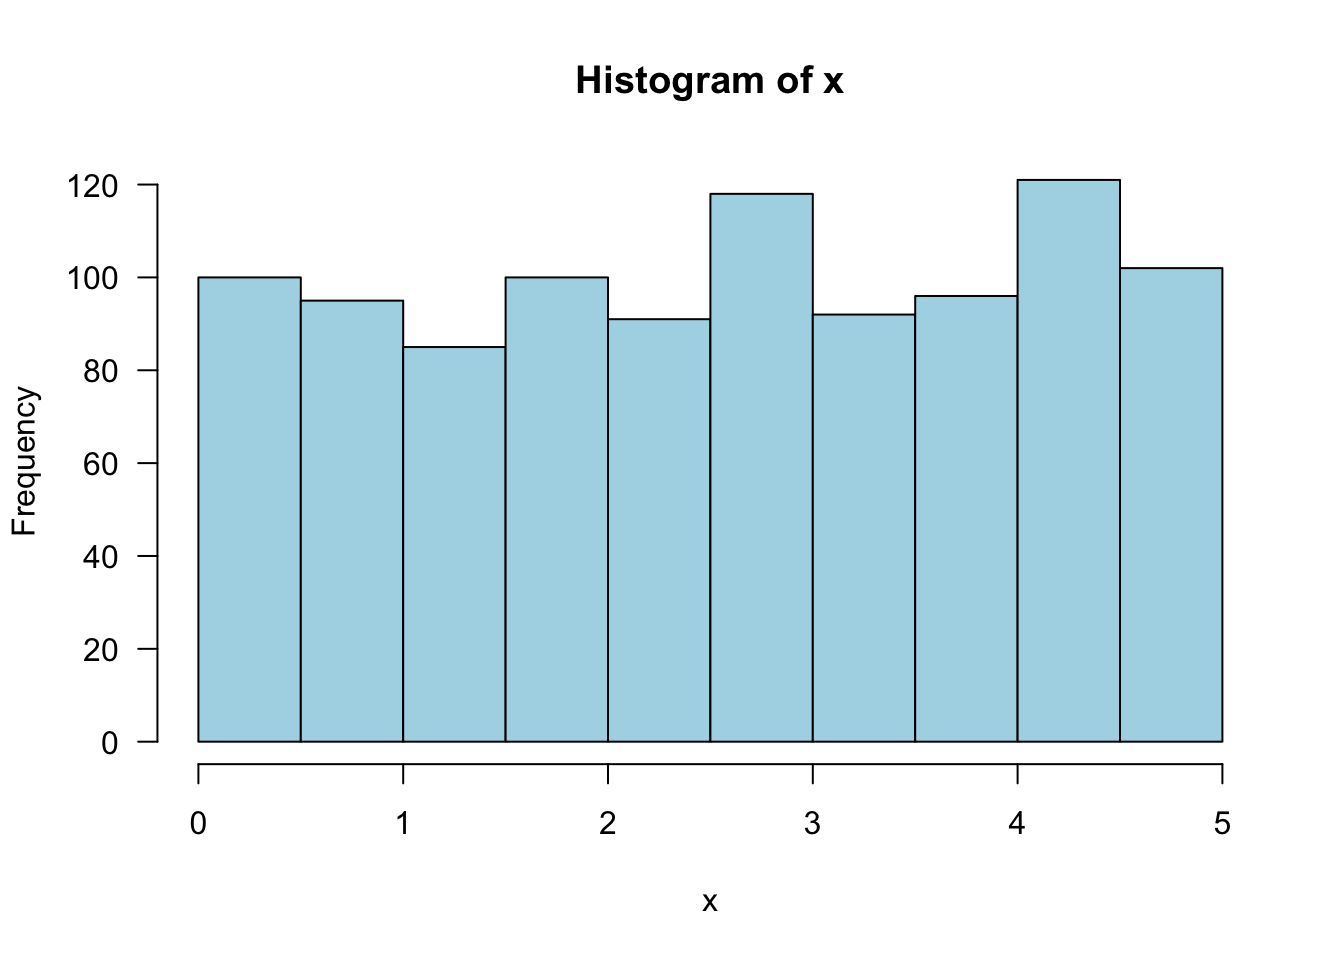
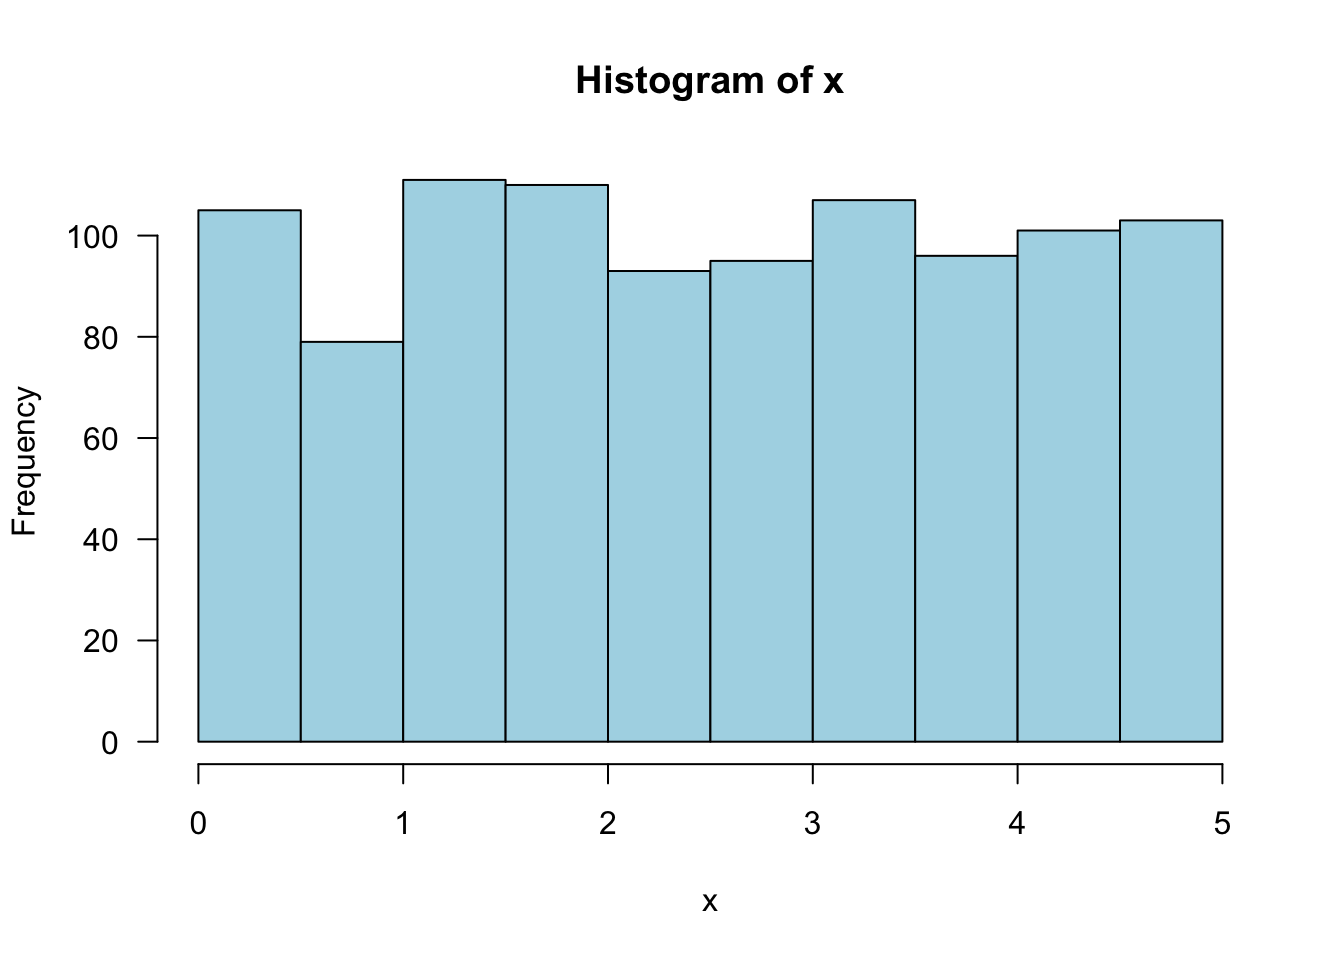
add link to interactive normal

diff --git a/docs/ch-4-continuous-random-variables-and-probability-distributions.html b/docs/ch-4-continuous-random-variables-and-probability-distributions.html
@@ -25,7 +25,7 @@
 <meta name="author" content="Joyce Robbins">
 
 
-<meta name="date" content="2019-02-25">
+<meta name="date" content="2019-02-26">
 
   <meta name="viewport" content="width=device-width, initial-scale=1">
   <meta name="apple-mobile-web-app-capable" content="yes">
@@ -270,11 +270,11 @@ code span.wa { color: #60a0b0; font-weight: bold; font-style: italic; } /* Warni
 <p>Randomly choose one number from the distribution:</p>
 <p><span class="math inline">\(f(x) = .2\)</span> for <span class="math inline">\(0 \leq x \leq 5\)</span>, 0 otherwise.</p>
 <pre class="sourceCode r"><code class="sourceCode r"><span class="kw">runif</span>(<span class="dt">n =</span> <span class="dv">1</span>, <span class="dt">min =</span> <span class="dv">0</span>, <span class="dt">max =</span> <span class="dv">5</span>)</code></pre>
-<pre><code>## [1] 4.286508</code></pre>
+<pre><code>## [1] 0.9302118</code></pre>
 <p>Take the average of 1000 picks:</p>
 <pre class="sourceCode r"><code class="sourceCode r">x &lt;-<span class="st"> </span><span class="kw">runif</span>(<span class="dt">n =</span> <span class="dv">1000</span>, <span class="dt">min =</span> <span class="dv">0</span>, <span class="dt">max =</span> <span class="dv">5</span>)
 <span class="kw">mean</span>(x)</code></pre>
-<pre><code>## [1] 2.559955</code></pre>
+<pre><code>## [1] 2.515571</code></pre>
 <p>Draw a histogram of the 1000 picks:</p>
 <pre class="sourceCode r"><code class="sourceCode r"><span class="kw">hist</span>(x, <span class="dt">las =</span> <span class="dv">1</span>, <span class="dt">col =</span> <span class="st">&quot;lightblue&quot;</span>)</code></pre>
 <p><img src="STAT1201-resource_files/figure-html/unnamed-chunk-29-1.png" width="672" /></p>
@@ -290,6 +290,7 @@ code span.wa { color: #60a0b0; font-weight: bold; font-style: italic; } /* Warni
 </div>
 <div id="the-normal-distribution" class="section level2 unnumbered">
 <h2>4.3 The Normal Distribution</h2>
+<p><a href="http://www.intmath.com/counting-probability/normal-distribution-graph-interactive.php">Interactive normal distribution</a> – change <span class="math inline">\(\mu\)</span> and <span class="math inline">\(\sigma\)</span> and see what happens.</p>
 <div id="r-6" class="section level3 unnumbered">
 <h3>R</h3>
 <p><span class="math inline">\(P(Z \leq -1)\)</span></p>

diff --git a/docs/index.html b/docs/index.html
@@ -25,7 +25,7 @@
 <meta name="author" content="Joyce Robbins">
 
 
-<meta name="date" content="2019-02-25">
+<meta name="date" content="2019-02-26">
 
   <meta name="viewport" content="width=device-width, initial-scale=1">
   <meta name="apple-mobile-web-app-capable" content="yes">
@@ -261,7 +261,7 @@ code span.wa { color: #60a0b0; font-weight: bold; font-style: italic; } /* Warni
 <div id="header">
 <h1 class="title">Stat 1201 Supplemental Materials</h1>
 <p class="author"><em>Joyce Robbins</em></p>
-<p class="date"><em>2019-02-25</em></p>
+<p class="date"><em>2019-02-26</em></p>
 </div>
 <div id="introduction" class="section level1 unnumbered">
 <h1>Introduction</h1>

diff --git a/docs/ch-1-descriptive-statistics.html b/docs/ch-1-descriptive-statistics.html
@@ -25,7 +25,7 @@
 <meta name="author" content="Joyce Robbins">
 
 
-<meta name="date" content="2019-02-25">
+<meta name="date" content="2019-02-26">
 
   <meta name="viewport" content="width=device-width, initial-scale=1">
   <meta name="apple-mobile-web-app-capable" content="yes">

diff --git a/docs/ch-12-linear-regression.html b/docs/ch-12-linear-regression.html
@@ -25,7 +25,7 @@
 <meta name="author" content="Joyce Robbins">
 
 
-<meta name="date" content="2019-02-25">
+<meta name="date" content="2019-02-26">
 
   <meta name="viewport" content="width=device-width, initial-scale=1">
   <meta name="apple-mobile-web-app-capable" content="yes">

diff --git a/docs/ch-13-nonlinear-and-multiple-regression.html b/docs/ch-13-nonlinear-and-multiple-regression.html
@@ -25,7 +25,7 @@
 <meta name="author" content="Joyce Robbins">
 
 
-<meta name="date" content="2019-02-25">
+<meta name="date" content="2019-02-26">
 
   <meta name="viewport" content="width=device-width, initial-scale=1">
   <meta name="apple-mobile-web-app-capable" content="yes">

diff --git a/docs/ch-14-chi-squared-test.html b/docs/ch-14-chi-squared-test.html
@@ -25,7 +25,7 @@
 <meta name="author" content="Joyce Robbins">
 
 
-<meta name="date" content="2019-02-25">
+<meta name="date" content="2019-02-26">
 
   <meta name="viewport" content="width=device-width, initial-scale=1">
   <meta name="apple-mobile-web-app-capable" content="yes">

diff --git a/docs/ch-2-conditional-probability.html b/docs/ch-2-conditional-probability.html
@@ -25,7 +25,7 @@
 <meta name="author" content="Joyce Robbins">
 
 
-<meta name="date" content="2019-02-25">
+<meta name="date" content="2019-02-26">
 
   <meta name="viewport" content="width=device-width, initial-scale=1">
   <meta name="apple-mobile-web-app-capable" content="yes">

diff --git a/docs/ch-2-probability.html b/docs/ch-2-probability.html
@@ -25,7 +25,7 @@
 <meta name="author" content="Joyce Robbins">
 
 
-<meta name="date" content="2019-02-25">
+<meta name="date" content="2019-02-26">
 
   <meta name="viewport" content="width=device-width, initial-scale=1">
   <meta name="apple-mobile-web-app-capable" content="yes">

diff --git a/docs/ch-3-discrete-distributions.html b/docs/ch-3-discrete-distributions.html
@@ -25,7 +25,7 @@
 <meta name="author" content="Joyce Robbins">
 
 
-<meta name="date" content="2019-02-25">
+<meta name="date" content="2019-02-26">
 
   <meta name="viewport" content="width=device-width, initial-scale=1">
   <meta name="apple-mobile-web-app-capable" content="yes">

diff --git a/docs/ch-5-joint-probability.html b/docs/ch-5-joint-probability.html
@@ -25,7 +25,7 @@
 <meta name="author" content="Joyce Robbins">
 
 
-<meta name="date" content="2019-02-25">
+<meta name="date" content="2019-02-26">
 
   <meta name="viewport" content="width=device-width, initial-scale=1">
   <meta name="apple-mobile-web-app-capable" content="yes">

diff --git a/docs/ch-5-random-samples.html b/docs/ch-5-random-samples.html
@@ -25,7 +25,7 @@
 <meta name="author" content="Joyce Robbins">
 
 
-<meta name="date" content="2019-02-25">
+<meta name="date" content="2019-02-26">
 
   <meta name="viewport" content="width=device-width, initial-scale=1">
   <meta name="apple-mobile-web-app-capable" content="yes">

diff --git a/docs/ch-6-point-estimation.html b/docs/ch-6-point-estimation.html
@@ -25,7 +25,7 @@
 <meta name="author" content="Joyce Robbins">
 
 
-<meta name="date" content="2019-02-25">
+<meta name="date" content="2019-02-26">
 
   <meta name="viewport" content="width=device-width, initial-scale=1">
   <meta name="apple-mobile-web-app-capable" content="yes">
